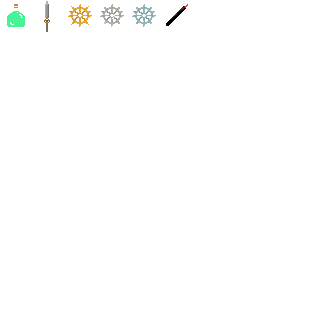
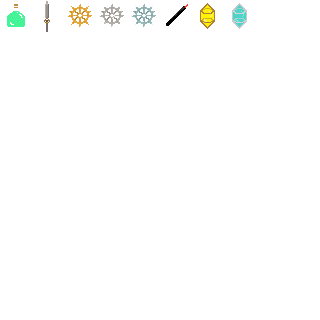
Energy Added

Changed region(s): [[0.7188, 0.0, 0.7812, 0.0938], [0.625, 0.0, 0.6875, 0.0938]]

diff --git a/GlassToast/src/application/PlayerHUD.java b/GlassToast/src/application/PlayerHUD.java
@@ -17,21 +17,22 @@ public class PlayerHUD extends StackPane{
 	private Player player;
 	private Rectangle barCell1,barCell2;
 	
+	
 	public PlayerHUD(Player p){
-		energy = new PlayerBars(-280,80,"energy");
-		health = new PlayerBars(-260,80,"health");
+		energy = new PlayerBars(-300,100,"energy");
+		health = new PlayerBars(-280,100,"health");
 		
 		player = p;
 		
 		barCell1 = new Rectangle();
 		barCell1.setFill(Color.DIMGREY);
 		barCell1.setStroke(Color.BLACK);
-		barCell1.setStrokeWidth(2.5);
+		barCell1.setStrokeWidth(3);
 		
 		barCell2 = new Rectangle();
 		barCell2.setFill(Color.DIMGREY);
 		barCell2.setStroke(Color.BLACK);
-		barCell2.setStrokeWidth(2.5);
+		barCell2.setStrokeWidth(3);
 		
 		this.getChildren().add(barCell1);
 		this.getChildren().add(barCell2);
@@ -43,11 +44,11 @@ public class PlayerHUD extends StackPane{
 		energy.rescale();
 		health.rescale();
 		
-		barCell1.setWidth(14*Game.scaleX);
-		barCell2.setWidth(14*Game.scaleX);
+		barCell1.setWidth(16.5*Game.scaleX);
+		barCell2.setWidth(16.5*Game.scaleX);
 		
-		barCell1.setHeight(energy.origHeight*Game.scaleY+2);
-		barCell2.setHeight(health.origHeight*Game.scaleY+2);
+		barCell1.setHeight(energy.origHeight*Game.scaleY+1);
+		barCell2.setHeight(health.origHeight*Game.scaleY+1);
 
 	}
 	
@@ -55,11 +56,11 @@ public class PlayerHUD extends StackPane{
 		energy.render();
 		health.render();
 		
-		barCell1.setTranslateY(-80*Game.scaleY);
-		barCell2.setTranslateY(-80*Game.scaleY);
+		barCell1.setTranslateY(-100*Game.scaleY);
+		barCell2.setTranslateY(-100*Game.scaleY);
 		
-		barCell1.setTranslateX(-280*Game.scaleX);
-		barCell2.setTranslateX(-260*Game.scaleX);
+		barCell1.setTranslateX(-300*Game.scaleX);
+		barCell2.setTranslateX(-280*Game.scaleX);
 		
 	
 	}
@@ -70,6 +71,7 @@ public class PlayerHUD extends StackPane{
 		private double percent,diffHeight,barDifference,diffCount,animateHeightDiff;
 		double origHeight;
 		Timeline change;
+		private boolean changing,firstRender = true,increasing;
 
 		public PlayerBars(double xcord, double ycord,String t) {
 			super(xcord, ycord);
@@ -82,13 +84,14 @@ public class PlayerHUD extends StackPane{
 			setBaseSpriteSheet("PlayerBars.png",scale);
 			generateFramesFromType(type);
 			autoAnimate(0.1);
-			origHeight = 120;
+			origHeight = 130;
 			change = new Timeline();
 			
 			change.getKeyFrames().add(new KeyFrame(Duration.seconds(0.001), new EventHandler<ActionEvent>() {
 				@Override
 				public void handle(ActionEvent arg0) {
-					if(diffCount < barDifference && img.getFitHeight()>0.1) {
+					changing = true;
+					if(diffCount < barDifference && img.getFitHeight()>0.1 && !increasing) {
 						double previousHeight = img.getFitHeight();
 						
 						
@@ -101,10 +104,24 @@ public class PlayerHUD extends StackPane{
 						img.setTranslateX(x * Game.scaleX);
 						img.setTranslateY((y * Game.scaleY)-(animateHeightDiff/2));
 						y = img.getTranslateY()/Game.scaleY;
-					}
-					else {
+					}else if(diffCount < Math.abs(barDifference) && img.getFitHeight()<130*Game.scaleY-0.1 && increasing){
+						double previousHeight = img.getFitHeight();
+						
+						img.setFitHeight(img.getFitHeight()+0.1);
+						
+						double newHeight = img.getFitHeight();
+						animateHeightDiff = newHeight-previousHeight;
+						diffCount+=0.1;
+						
+						img.setTranslateX(x * Game.scaleX);
+						img.setTranslateY((y * Game.scaleY)-(animateHeightDiff/2));
+						y = img.getTranslateY()/Game.scaleY;
+					}else {
+					
 						change.stop();
 						diffCount = 0;
+						changing = false;
+						increasing = false;
 					}
 				}
 				
@@ -124,38 +141,47 @@ public class PlayerHUD extends StackPane{
 			if(!type.equals("energy")) {
 				double previousHeight = img.getFitHeight();
 				percent = player.health/(double)player.maxHealth;
-				if(percent == 0)
-					percent = 0.0001;
-				decreaseBar(previousHeight-(120*Game.scaleY*percent));
+				decreaseBar(previousHeight-(130*Game.scaleY*percent));
 			}else {
 				double previousHeight = img.getFitHeight();
 				percent = player.batteryPower/(double)player.batteryPowerMax;
-				if(percent == 0)
-					percent = 0.0001;
-				decreaseBar(previousHeight-(120*Game.scaleY*percent));
+				decreaseBar(previousHeight-(130*Game.scaleY*percent));
+				
 			}
 		}
 		
 		@Override
 		public void rescale() {
+			
 			setBaseSpriteSheet("PlayerBars.png",scale);
 			generateFramesFromType(type);
 			
-			img.setFitHeight(120*Game.scaleY*percent);
-			img.setFitWidth(30*Game.scaleX);
+			img.setFitHeight(130*Game.scaleY*percent);
+			img.setFitWidth(35*Game.scaleX);
 		} 
 		
 		public void render() {
-			update();
-			img.setTranslateX(x * Game.scaleX);
-			img.setTranslateY((y * Game.scaleY)-(diffHeight/2));
-			y = img.getTranslateY()/Game.scaleY;
+			
+				img.setTranslateX(x * Game.scaleX);
+				img.setTranslateY((y * Game.scaleY)-(diffHeight/2));
+				y = img.getTranslateY()/Game.scaleY;
+				firstRender = false;
+			
+			if(!changing)
+				update();
+			
 			if(!img.isVisible())
 					img.setVisible(true);
+			
+			
 
 		}
 
 		public void decreaseBar(double diff) {
+			if(diff < -1) {
+				increasing = true;
+			}
+			
 			barDifference = diff;
 			change.setCycleCount(Timeline.INDEFINITE);
 			change.play();

diff --git a/GlassToast/src/application/items/consumables/Consumable.java b/GlassToast/src/application/items/consumables/Consumable.java
@@ -5,17 +5,20 @@ import java.util.function.Consumer;
 import application.items.Item;
 import application.sprites.entities.Player;
 
-public abstract class Consumable extends Item{
+public class Consumable extends Item{
 	
 	private Consumer<Player> effect;
-	
+	private int spriteRow,spriteCol;
 	
 	public Consumable(int p,String n, String d,Consumer<Player> e,int spriteSheetRow,int spriteSheetCol) {
 		super(p,n,d,spriteSheetRow,spriteSheetCol);
 		effect = e;
+		spriteRow = spriteSheetRow;
+		spriteCol = spriteSheetCol;
 	}
 	
 	public void use(Player p) {
+		System.out.println("nani");
 		effect.accept(p);
 	}
 	
@@ -24,11 +27,23 @@ public abstract class Consumable extends Item{
 		return (int)(price*0.65);
 	}
 	
-	public abstract Consumable createThisItem();
+	public static Consumable energyCell() {
+		return new Consumable(50, "Energy Cell", "Container holding liquid energy.\nRestores 20 Energy", p -> {
+			p.batteryPower = p.batteryPower + 15 > p.batteryPowerMax ? p.batteryPowerMax : p.batteryPower + 20;
+		},0,6);
+	}
+	
+	public static Consumable galvanicCell() {
+		return new Consumable(400, "Galvanic Cell", "Powerful fluids bubble inside.\nRestores 50 Energy", p -> {
+			p.batteryPower = p.batteryPower + 50 > p.batteryPowerMax ? p.batteryPowerMax : p.batteryPower + 50;
+		},0,7);
+	}
+	
+	
 	
 	@Override
-	public Item createNewItemObject() {
-		return createThisItem();
+	public Consumable createNewItemObject() {
+		return new Consumable(price,name,desc,effect,spriteRow,spriteCol);
 	}
 	
 	

diff --git a/GlassToast/src/application/items/weapons/Weapon.java b/GlassToast/src/application/items/weapons/Weapon.java
@@ -18,8 +18,9 @@ public class Weapon extends Item{
 	private WeaponType weaponType;
 	private String picPath;
 	private int spriteRow,spriteCol;
+	protected double energyUsage;
 	
-	public Weapon(Entity e,int p, String n, String d,double dmg,WeaponType t,String pic,int fspriteRow,int fspriteCol) {
+	public Weapon(Entity e,int p, String n, String d,double dmg,WeaponType t,String pic,int fspriteRow,int fspriteCol,double eu) {
 		super(p, n, d,fspriteRow,fspriteCol);
 		entity = e;
 		weaponSprite = new WeaponSprite(pic,t,e,this);
@@ -28,6 +29,7 @@ public class Weapon extends Item{
 		spriteRow = fspriteRow;
 		spriteCol = fspriteCol;
 		damage = dmg;
+		energyUsage = eu;
 	}
 
 	
@@ -37,7 +39,7 @@ public class Weapon extends Item{
 	
 	public static class Melee{
 		public static Weapon ghostIron(Entity e) {
-			return new Weapon(e,70,"Ghost Iron Blade","A short sword made from a rare metal.",3.5,WeaponType.SWORD,"GhostSteelSword.png",0,1);
+			return new Weapon(e,70,"Ghost Iron Blade","A short sword made from a rare metal.",3.5,WeaponType.SWORD,"GhostSteelSword.png",0,1,0.35);
 		}
 		
 		
@@ -53,8 +55,8 @@ public class Weapon extends Item{
 	}
 
 	@Override
-	public Item createNewItemObject() {
-		return new Weapon(entity,price,name,desc,damage,weaponType,picPath,spriteRow,spriteCol);
+	public Weapon createNewItemObject() {
+		return new Weapon(entity,price,name,desc,damage,weaponType,picPath,spriteRow,spriteCol,energyUsage);
 	}
 	
 	

diff --git a/GlassToast/src/application/Game.java b/GlassToast/src/application/Game.java
@@ -254,14 +254,14 @@ public class Game extends StackPane{
 		scene.widthProperty().addListener(new ChangeListener<Number>() {
 			   @Override public void changed(ObservableValue<? extends Number> observableValue, Number oldSceneWidth, Number newSceneWidth) {
 				   width = (Double)newSceneWidth;
-				   scaleX = (width / 1200) * 2;
+				   scaleX = (width / 1200) * 1.9;
 				   rescale();
 			    }
 			});
 			scene.heightProperty().addListener(new ChangeListener<Number>() {
 			   @Override public void changed(ObservableValue<? extends Number> observableValue, Number oldSceneHeight, Number newSceneHeight) {
 				   height = (Double)newSceneHeight;
-				   scaleY = (height / 675) * 2;
+				   scaleY = (height / 675) * 1.9;
 				   rescale();
 			    }
 			});
@@ -276,10 +276,11 @@ public class Game extends StackPane{
 			new Chest(-130,20);	
 			
 			
-			new EyeFactory(-150,-100,true);
-			new EyeFactory(150,-100,true);
-			new EyeFactory(-150,100,true);
-			new EyeFactory(150,100,true);
+			new EyeFactory(-150,-100,false);
+			new EyeFactory(150,-100,false);
+			new EyeFactory(-150,100,false);
+			
+			new EyeFactory(150,100,false);
 		
 		
 			

diff --git a/GlassToast/src/application/sprites/Chest.java b/GlassToast/src/application/sprites/Chest.java
@@ -11,6 +11,7 @@ import application.LootTable;
 import application.LootTable.LootElement;
 import application.items.Gear;
 import application.items.Item;
+import application.items.consumables.Consumable;
 import application.items.consumables.Sealant;
 import application.items.weapons.Weapon;
 import application.sprites.entities.Player;
@@ -57,7 +58,7 @@ public class Chest extends Sprite implements Interactable, Comparable<Interactab
 		} catch (FileNotFoundException e) {System.out.println("Error Loading Player");}
 		game.textBoxes.getChildren().add(openLabel);
 	
-		lootTable = new LootTable(new LootElement(15,new Gear(Gear.Type.STEEL),1),new LootElement(20,new Sealant(),1),new LootElement(40,new Gear(Gear.Type.BRONZE),2));
+		lootTable = new LootTable(new LootElement(15,new Gear(Gear.Type.STEEL),1),new LootElement(25,Consumable.energyCell(),1),new LootElement(20,new Sealant(),1),new LootElement(40,new Gear(Gear.Type.BRONZE),2));
 		
 	
 		

diff --git a/GlassToast/src/application/sprites/entities/Player.java b/GlassToast/src/application/sprites/entities/Player.java
@@ -11,6 +11,7 @@ import application.Game;
 import application.Interactable;
 import application.items.Gear;
 import application.items.Item;
+import application.items.consumables.Consumable;
 import application.items.weapons.Weapon;
 import application.sprites.Chest;
 import application.sprites.InfoText;
@@ -71,7 +72,7 @@ public class Player extends Entity implements Serializable{
 		weapon.equip();
 		batteryPower = 100;
 		batteryPowerMax = 100;
-		batteryRateOut = 0.35;
+		batteryRateOut = 0.26;
 		updateBattery = new Timeline();
 		setHitBox();
 		
@@ -191,9 +192,13 @@ public class Player extends Entity implements Serializable{
 	
 	public boolean addToInventory(Item item) {
 		boolean added = false;
-		
+	
 		if(item instanceof Gear){
 			gears += item.getSellPrice();
+			return true;
+		}
+		if(item instanceof Consumable){
+			((Consumable) item).use(this);
 			return true;
 		}
 			for(int slot = 0;slot<inventory.length;slot++) {

diff --git a/GlassToast/src/application/sprites/entities/enemies/EyeFactory.java b/GlassToast/src/application/sprites/entities/enemies/EyeFactory.java
@@ -25,14 +25,14 @@ public class EyeFactory extends Enemy{
 	private boolean closed;
 	
 	public EyeFactory(int xcord, int ycord,boolean infinite) {
-		super(xcord, ycord,20,20);
+		super(xcord, ycord,24,24);
 		lootTable = new LootTable(new LootElement(70,new Gear(Gear.Type.STEEL),1));
 		behavior = Behavior.STATIONARY;
 		speed = 1;
 		scale = 2;
 		damage = 1;
 		spawnRate = (Math.random() * 3.5) + 1.5;
-		spawnCount = ((int)Math.random()*15) + 10;
+		spawnCount = ((int)Math.random()*23) + 18;
 		
 		setHitBox();
 		setBaseSpriteSheet("RazorEye.png",scale);

diff --git a/GlassToast/src/application/items/consumables/Sealant.java b/GlassToast/src/application/items/consumables/Sealant.java
@@ -12,14 +12,14 @@ public class Sealant extends Consumable{
 	
 	public Sealant() {
 		super(120, "Sealant", "Apply liberally to cracks and scrapes.\nRestores 1 HP", e -> {
-			e.health = e.health + 1 > e.maxHealth ? e.health : e.health + 1;
-		},SPRITESHEET_ROW,SPRITESHEET_COL);
+			e.health = e.health + 1 > e.maxHealth ? e.maxHealth : e.health + 1;
+		System.out.println(e.health);},SPRITESHEET_ROW,SPRITESHEET_COL);
 		
 		
 	}
 
 	@Override
-	public Consumable createThisItem() {
+	public Consumable createNewItemObject() {
 		return new Sealant();
 	}
 	

diff --git a/GlassToast/src/application/Main.java b/GlassToast/src/application/Main.java
@@ -27,8 +27,8 @@ public class Main extends Application {
 
 			primaryStage.setMaximized(true);
 			Game.getGame().init(scene);
-			Game.scaleX = (Game.getGame().width / 1200) * 2;
-			Game.scaleY = (Game.getGame().height / 675) * 2;
+			Game.scaleX = (Game.getGame().width / 1200) * 1.9;
+			Game.scaleY = (Game.getGame().height / 675) * 1.9;
 			Game.getGame().rescale();
 			//
 		} catch(Exception e) {

diff --git a/GlassToast/src/application/items/weapons/WeaponSprite.java b/GlassToast/src/application/items/weapons/WeaponSprite.java
@@ -102,8 +102,8 @@ public class WeaponSprite extends Sprite{
 	
 	protected void attack() {
 		if(!attacking) {
-			
-		
+			if(entity instanceof Player)
+				((Player)entity).batteryPower-=weapon.energyUsage;
 			attackAnimation.setCycleCount(Timeline.INDEFINITE);
 			attackAnimation.play();
 		}
